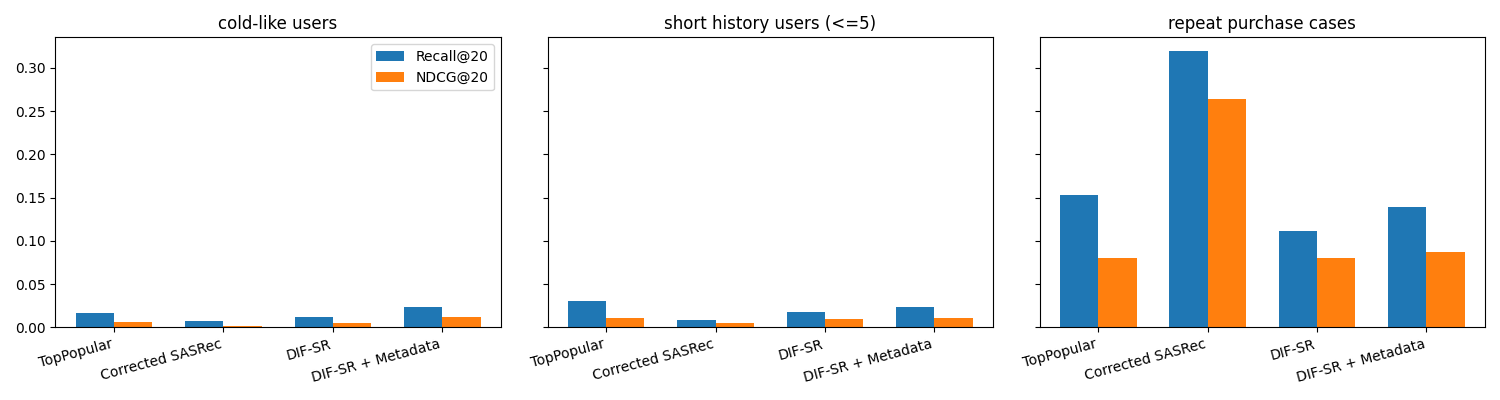
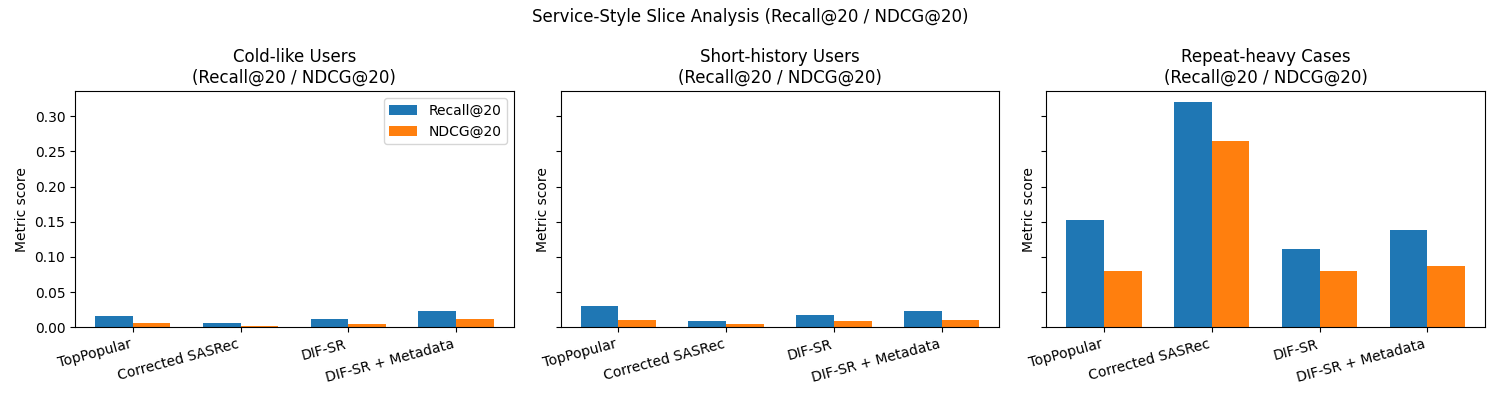
docs: refine portfolio readme and slice figure labels

diff --git a/analysis/generate_final_portfolio_plots.py b/analysis/generate_final_portfolio_plots.py
@@ -89,6 +89,11 @@ def plot_canonical_vs_service(canonical_results, service_results, output_path: P
 def plot_service_slices(service_slices, output_path: Path):
     models = ["TopPopular", "Corrected SASRec", "DIF-SR", "DIF-SR + Metadata"]
     slice_names = ["cold-like users", "short history users (<=5)", "repeat purchase cases"]
+    slice_titles = {
+        "cold-like users": "Cold-like Users\n(Recall@20 / NDCG@20)",
+        "short history users (<=5)": "Short-history Users\n(Recall@20 / NDCG@20)",
+        "repeat purchase cases": "Repeat-heavy Cases\n(Recall@20 / NDCG@20)",
+    }
     x = np.arange(len(models))
     width = 0.35
 
@@ -98,11 +103,12 @@ def plot_service_slices(service_slices, output_path: Path):
         ndcg_values = [service_slices[m][slice_name]["NDCG@20"] for m in models]
         ax.bar(x - width / 2, recall_values, width, label="Recall@20", color="#2f6bff")
         ax.bar(x + width / 2, ndcg_values, width, label="NDCG@20", color="#ff7f32")
-        ax.set_title(slice_name)
+        ax.set_title(slice_titles[slice_name])
         ax.set_xticks(x)
         ax.set_xticklabels(models, rotation=15, ha="right")
+        ax.set_ylabel("Metric score")
     axes[0].legend()
-    fig.suptitle("Service-Style Slice Analysis")
+    fig.suptitle("Service-Style Slice Analysis (Recall@20 / NDCG@20)")
     fig.tight_layout()
     fig.savefig(output_path, dpi=180)
     plt.close(fig)

diff --git a/scripts/generate_service_style_eval.py b/scripts/generate_service_style_eval.py
@@ -147,6 +147,11 @@ def render_service_comparison_plot(canonical, service_results, output_path: Path
 
 def render_service_slice_plot(slice_results, output_path: Path):
     slice_names = ["cold-like users", "short history users (<=5)", "repeat purchase cases"]
+    slice_titles = {
+        "cold-like users": "Cold-like Users\n(Recall@20 / NDCG@20)",
+        "short history users (<=5)": "Short-history Users\n(Recall@20 / NDCG@20)",
+        "repeat purchase cases": "Repeat-heavy Cases\n(Recall@20 / NDCG@20)",
+    }
     models = ["TopPopular", "Corrected SASRec", "DIF-SR", "DIF-SR + Metadata"]
     x = np.arange(len(models))
     width = 0.35
@@ -157,10 +162,12 @@ def render_service_slice_plot(slice_results, output_path: Path):
         ndcg_vals = [slice_results[m][slice_name]["NDCG@20"] for m in models]
         ax.bar(x - width / 2, recall_vals, width, label="Recall@20")
         ax.bar(x + width / 2, ndcg_vals, width, label="NDCG@20")
-        ax.set_title(slice_name)
+        ax.set_title(slice_titles[slice_name])
         ax.set_xticks(x)
         ax.set_xticklabels(models, rotation=15, ha="right")
+        ax.set_ylabel("Metric score")
     axes[0].legend()
+    fig.suptitle("Service-Style Slice Analysis (Recall@20 / NDCG@20)")
     fig.tight_layout()
     output_path.parent.mkdir(parents=True, exist_ok=True)
     fig.savefig(output_path)

diff --git a/README.md b/README.md
@@ -27,98 +27,28 @@
 
 ## Abstract
 
-이 프로젝트는 real fashion purchase dataset에서 sparse interaction regime 하의 sequential recommendation을 분석합니다. 핵심 질문은 item metadata가 recommendation quality를 개선하는지, 그리고 어떤 user regime에서 그 효과가 가장 크게 나타나는지입니다. 실험 결과, `TopPopular`는 전체적으로 가장 강한 baseline으로 남아 strong popularity dominance를 보여주었고, personalized model 중에서는 `DIF-SR + Metadata`가 가장 높은 성능을 보였습니다. 또한 metadata는 cold-like user와 short-history user에서 특히 유용했고, repeat-heavy scenario는 일반적인 sparse recommendation과 다른 memorization-oriented regime으로 해석할 수 있었습니다. 실험 과정에서는 SASRec baseline의 causal masking 문제를 발견하고 수정했으며, 이 baseline verification이 모델 비교 해석을 실질적으로 바꾸는 핵심 단계였습니다.
+이 프로젝트는 real fashion purchase dataset에서 sparse interaction regime 하의 sequential recommendation을 분석합니다. 핵심 질문은 item metadata가 recommendation quality를 개선하는지, 그리고 어떤 user regime에서 그 효과가 가장 크게 나타나는지입니다.
 
 - `TopPopular` remains the strongest overall baseline.
 - `DIF-SR + Metadata` is the strongest personalized model.
 - Metadata is most useful under weak behavioral signals such as cold-like and short-history regimes.
+- Baseline verification materially changed the interpretation of model comparisons.
 
 ## Research Question
 
 이 프로젝트는 behavioral signal이 약한 환경에서 sequential recommender가 어떻게 동작하는지, 그리고 item metadata가 sparse interaction history를 얼마나 보완할 수 있는지를 분석합니다.
 
-```mermaid
-flowchart TD
-
-A["Sparse Recommendation Environment"]
-
-A --> B["Weak Behavioral Signals"]
-A --> C["Short User Histories"]
-A --> D["Strong Popularity Bias"]
-
-B --> E["Can Metadata Help?"]
-C --> E
-
-E --> F["Sequential Model Comparison"]
-
-F --> G["SASRec"]
-F --> H["DIF-SR"]
-F --> I["DIF-SR + Metadata"]
-
-G --> J["Performance Evaluation"]
-H --> J
-I --> J
-
-J --> K["User Regime Analysis"]
-```
-
-## Experiment Pipeline
-
-이 파이프라인은 sequential dataset을 구성하고, 네 가지 추천 모델을 학습한 뒤, 여러 평가 체계에서 성능을 비교하고 slice analysis를 수행합니다.
-
-```mermaid
-flowchart TD
-
-A["Raw H&M Transaction CSV"] --> B["Dataset Preprocessing"]
-
-B --> C1["Canonical Dataset"]
-B --> C2["Service-style Dataset"]
-
-C1 --> D1["Model Training"]
-C2 --> D2["Model Training"]
-
-D1 --> E1["Evaluation"]
-D2 --> E2["Evaluation"]
-
-E1 --> F1["Canonical Results"]
-E2 --> F2["Service-style Results"]
-
-F1 --> G["Slice Analysis"]
-F2 --> G
-
-G --> H["Insights"]
-
-subgraph Models
-M1["TopPopular"]
-M2["Corrected SASRec"]
-M3["DIF-SR"]
-M4["DIF-SR + Metadata"]
-end
-
-D1 --> M1
-D1 --> M2
-D1 --> M3
-D1 --> M4
-
-D2 --> M1
-D2 --> M2
-D2 --> M3
-D2 --> M4
-
-subgraph "Slice Analysis"
-S1["Cold-like Users"]
-S2["Short History Users"]
-S3["Repeat Purchases"]
-end
-
-G --> S1
-G --> S2
-G --> S3
-```
+| Component | Focus |
+| --- | --- |
+| Environment | sparse interaction regime, short user histories, strong popularity bias |
+| Core Question | can item metadata improve recommendation quality under weak behavioral signals? |
+| Model Comparison | `SASRec`, `DIF-SR`, `DIF-SR + Metadata` |
+| Evaluation Goal | understand model behavior across user regimes rather than compare only aggregate metrics |
+| Slice Focus | cold-like users, short-history users, repeat-heavy cases |
 
 ## Experiment Process
 
-실험 도중 SASRec baseline의 성능 이상이 발견되었고, 이를 점검하는 과정에서 원래 구현에 causal masking이 빠져 있다는 것을 확인했습니다. 이후 baseline을 수정한 뒤 동일 조건에서 모델 비교를 다시 맞췄습니다.
+이 실험은 dataset construction, model training, evaluation, slice analysis, interpretation으로 이어지는 standard recommender workflow를 따릅니다. 이 프로젝트에서 중요한 차별점은 실험 중간에 baseline anomaly를 발견하고, sanity check와 baseline correction을 통해 전체 비교 해석을 다시 정렬했다는 점입니다.
 
 | Phase | Main Action | Why It Mattered |
 | --- | --- | --- |
@@ -177,12 +107,12 @@ G --> S3
 
 이 framework는 reusable skills와 role-based agents를 통해 실험을 운영합니다. 주요 execution unit은 dataset preprocessing, model training, evaluation, slice analysis, metric aggregation, plot generation이며, 실험 수명주기에서는 `Experiment Planner`, `Training Agent`, `Evaluation Agent`, `Analysis Agent`가 서로 다른 책임을 맡습니다.
 
-실험은 다음 phase로 구성됩니다.
-
-- baseline verification
-- model comparison
-- slice analysis
-- robustness evaluation
+| Phase | Purpose | Typical Output |
+| --- | --- | --- |
+| `baseline verification` | baseline validity 점검 및 anomaly 확인 | sanity check, corrected baseline |
+| `model comparison` | aligned setting에서 backbone 및 metadata variant 비교 | canonical model metrics |
+| `slice analysis` | user regime별 성능 차이 해석 | cold-like, short-history, repeat-heavy findings |
+| `robustness evaluation` | service-style setting에서 결과 안정성 확인 | supplementary metrics and plots |
 
 workflow는 다음과 같은 self-evolution loop를 따릅니다.
 
@@ -192,23 +122,15 @@ workflow는 다음과 같은 self-evolution loop를 따릅니다.
 
 ## Baseline Verification
 
-초기 SASRec baseline은 다음 두 가지 이유로 신뢰하기 어려웠습니다.
+초기 SASRec baseline은 causal masking 누락과 지나치게 약한 학습 설정 때문에 신뢰하기 어려웠습니다.
 
-- causal masking 누락
-- 지나치게 약한 학습 설정
-
-초기 SASRec:
-
-- `Recall@20: 0.0006`
-- `NDCG@20: 0.0002`
-
-causal masking을 복구하고 다시 학습한 뒤의 corrected SASRec:
-
-- `Recall@20: 0.0113`
-- `NDCG@20: 0.0040`
-- `MRR@20: 0.0020`
-
-이 단계는 실험의 과학적 타당성을 크게 높였습니다.
+| Item | Initial SASRec | Corrected SASRec | Why It Matters |
+| --- | --- | --- | --- |
+| Implementation | missing causal masking | causal masking restored | sequential baseline으로서의 validity를 회복합니다. |
+| Training setup | undertrained configuration | stronger sanity configuration | underfitting 때문에 왜곡된 비교를 줄입니다. |
+| `Recall@20` | `0.0006` | `0.0113` | baseline이 실제로 의미 있는 수준까지 회복됐는지 보여줍니다. |
+| `NDCG@20` | `0.0002` | `0.0040` | ranking quality 해석이 달라집니다. |
+| `MRR@20` | not tracked in initial run | `0.0020` | corrected baseline에서 rank-sensitive metric도 함께 확인할 수 있습니다. |
 
 상세 메모:
 
@@ -304,6 +226,8 @@ service-style report:
 
 ![Service-style slice analysis](plots/final_slice_analysis.png)
 
+각 panel은 `Recall@20`와 `NDCG@20`를 함께 보여줍니다.
+
 ### Cold-Like Users
 
 `DIF-SR + Metadata`
@@ -350,13 +274,9 @@ repeat-heavy scenario는 일반적인 sparse recommendation보다 memorization p
 
 ## Why Does Popularity Dominate in This Dataset?
 
-전 실험에서 가장 눈에 띄는 관찰 중 하나는 `TopPopular`가 전체적으로 가장 강한 모델로 남았다는 점입니다.
-
-이 현상은 극도로 sparse한 추천 환경에서 드문 일이 아니며, 이 데이터셋의 세 가지 구조적 특성으로 설명할 수 있습니다.
+`TopPopular`가 전체적으로 가장 강한 모델로 남았다는 점은 이 데이터셋의 세 가지 구조적 특성으로 설명할 수 있습니다.
 
 ### 1. Extremely Sparse Interaction Matrix
-
-이 데이터셋은 다음 규모를 가집니다.
 
 - `22k` users
 - `29k` items
@@ -364,57 +284,31 @@ repeat-heavy scenario는 일반적인 sparse recommendation보다 memorization p
 - 평균 sequence 길이 약 `9`
 - 중간 sequence 길이 `6`
 
-즉 대부분의 사용자는 아주 적은 수의 item과만 상호작용합니다.
-
-behavioral evidence가 부족하면 안정적인 사용자 선호를 학습하기 어렵습니다. 이런 환경에서는 전역 인기 신호가 미래 상호작용을 예측하는 강한 기준이 되기 쉽습니다.
+대부분의 사용자는 아주 적은 수의 item과만 상호작용합니다. behavioral evidence가 부족한 환경에서는 personalized signal보다 global popularity가 더 안정적으로 작동합니다.
 
 ### 2. Short User Histories
 
-상당수 사용자가 short-history regime에 속합니다.
-
-이 환경에서는 대체로 다음 관계가 성립합니다.
-
 `behavior signal < popularity signal`
 
-Sequential model은 의미 있는 과거 패턴에 의존합니다. 하지만 sequence 길이가 너무 짧으면 사용자 의도를 충분히 안정적으로 추론할 수 없어서, popularity를 일관되게 이기기 어렵습니다.
+상당수 사용자가 short-history regime에 속하기 때문에, sequential model이 활용할 과거 패턴 자체가 제한적입니다.
 
 ### 3. Marketplace-like Demand Distribution
 
-구매 데이터는 보통 heavy-tailed demand distribution을 따릅니다.
-
-- 소수의 item은 매우 인기 있고
-- 다수의 item은 거의 구매되지 않습니다
-
-이 분포에서는 인기 item이 test target으로 자주 등장하므로, popularity-based recommender가 구조적으로 유리합니다.
+구매 데이터는 heavy-tailed demand distribution을 따르며, 인기 item이 test target으로 자주 등장합니다. 이 구조는 popularity-based recommender를 자연스럽게 유리하게 만듭니다.
 
 ### 4. Implications for Recommender Systems
 
-이 결과는 실무적으로 중요한 시사점을 줍니다.
-
-희소 추천 환경에서는 모델 구조를 개선하는 것만으로 단순 popularity baseline을 넘기기 어려울 수 있습니다.
-
-실제 개선은 보통 다음과 같은 요소를 함께 필요로 합니다.
-
-- metadata 같은 추가 contextual signal
-- 더 풍부한 user interaction history
-- 더 강한 candidate generation 전략
-- 도메인 특화 recommendation policy
-
-이 점은 sparsity와 popularity bias가 흔한 marketplace 추천 시스템과도 자연스럽게 연결됩니다.
+희소 추천 환경에서는 모델 구조 개선만으로 popularity baseline을 넘기기 어렵습니다. 실제 개선은 metadata 같은 추가 signal, 더 풍부한 interaction history, stronger candidate generation, domain-specific policy를 함께 필요로 합니다.
 
 ## Reproducibility
 
-### Reproduction Scope
-
-이 public 저장소는 saved outputs 기반의 artifact regeneration과 report packaging을 지원합니다. 원본 로컬 transaction 데이터는 배포하지 않기 때문에, raw data에서 시작하는 full end-to-end reproduction은 제공하지 않습니다.
-
-지원 범위:
+### Supported Scope
 
 - saved outputs 기반 research analysis 재생성
 - service-style supplementary report 재생성
 - portfolio plots 및 curated reports 재패키징
 
-비지원 범위:
+### Unsupported Scope
 
 - original local transaction data로부터의 full dataset rebuild
 - raw data에서 시작하는 end-to-end training reproduction

diff --git a/reports/research_summary.md b/reports/research_summary.md
@@ -9,6 +9,6 @@ Main conclusions:
 - metadata is most useful when behavioral signal is weak, especially in cold-like and short-history service slices
 
 Primary entry points:
-- canonical summary: [canonical_evaluation.md](canonical_evaluation.md)
-- service-style summary: [service_style_evaluation.md](service_style_evaluation.md)
-- baseline sanity check: [SASREC_SANITY_FIX.md](../SASREC_SANITY_FIX.md)
+- canonical summary: [canonical_evaluation.md](/Users/conan/projects/personalized-fashion-recommendation/reports/canonical_evaluation.md)
+- service-style summary: [service_style_evaluation.md](/Users/conan/projects/personalized-fashion-recommendation/reports/service_style_evaluation.md)
+- baseline sanity check: [SASREC_SANITY_FIX.md](/Users/conan/projects/personalized-fashion-recommendation/SASREC_SANITY_FIX.md)
